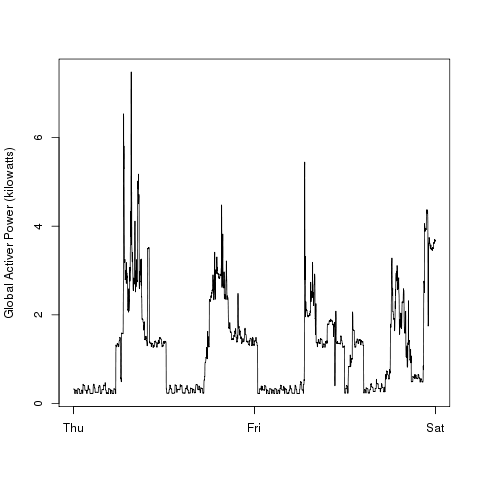
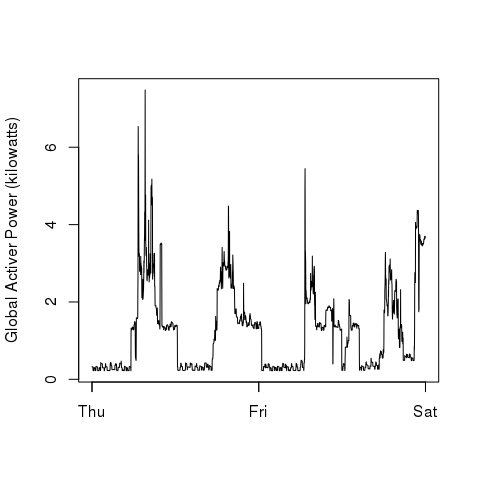
Had to use "cairo" graphics for CentOS 7, as many X11 fonts were missing. This required some fiddling with size of fonts on some graphs.

Changed region(s): [[0.0, 0.0938, 0.9645, 0.9062], [0.8476, 0.8438, 0.9353, 0.9062]]

diff --git a/README.md b/README.md
@@ -4,7 +4,7 @@
 
 The following was in the original README file, except for the plots which are my own.
 
-
+<i>
 This assignment uses data from
 the <a href="http://archive.ics.uci.edu/ml/">UC Irvine Machine
 Learning Repository</a>, a popular repository for machine learning
@@ -96,6 +96,7 @@ date. There should be four PNG files and four R code files.
 
 The four plots that you will need to construct are shown below. 
 
+</i>
 
 ### Plot 1
 
